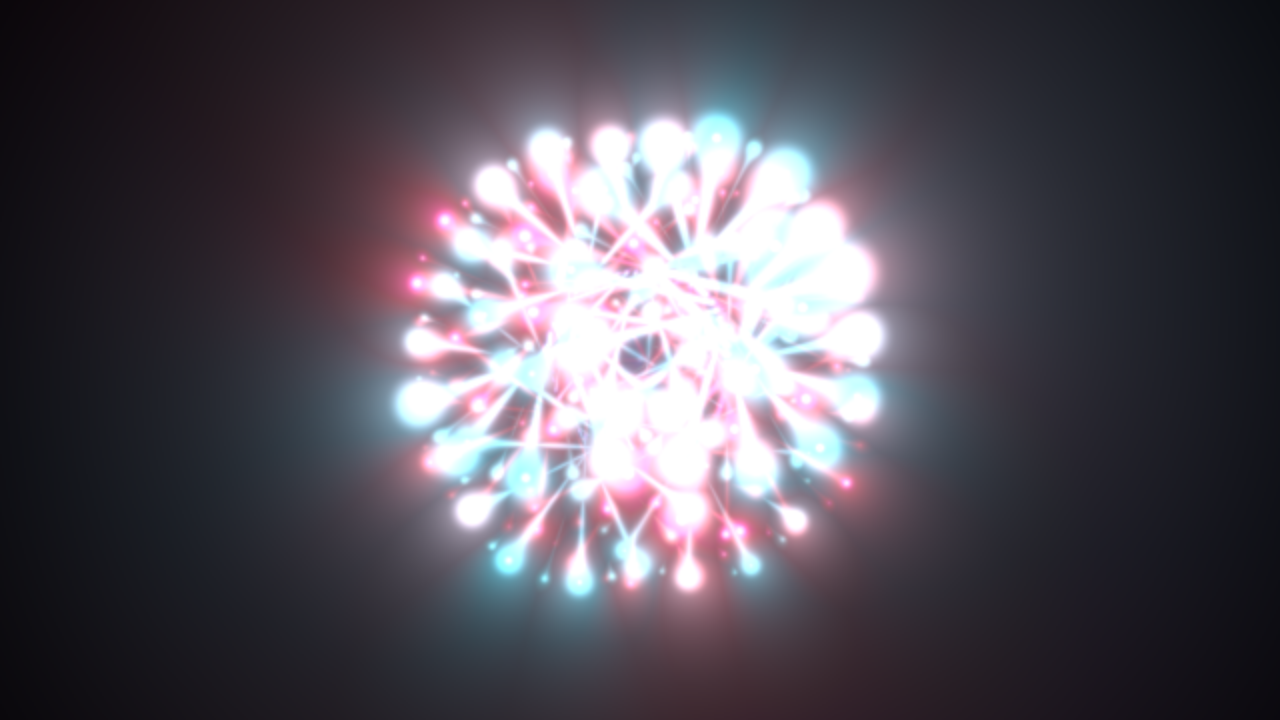
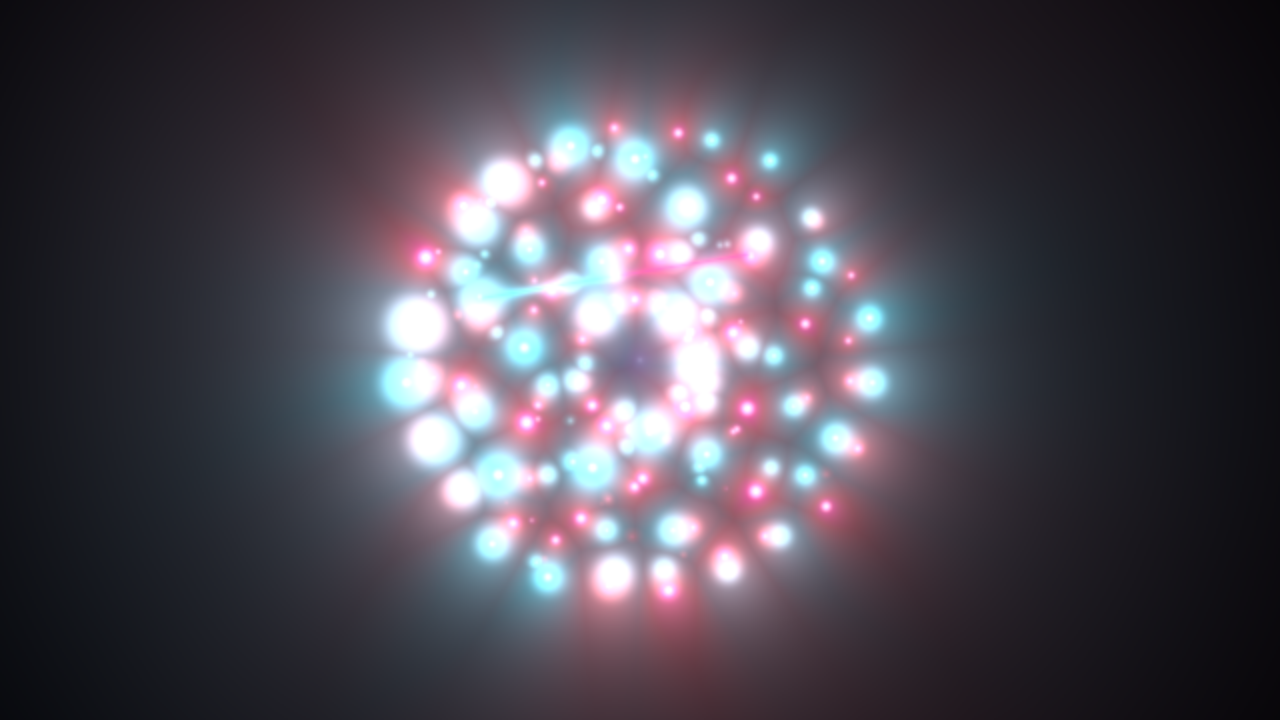
glow-poi: trails on the orbs only, strings drawn fresh
Only the glowing heads leave light-trails now. poiHeads gains a `parts`
option ("all" | "heads" | "rig"); the scene runs a heads-only pass through
feedback and composites a fresh strings+pivot pass (`over`) on top, so the
strings show their current position without smearing into the trail.

Claude-Session: https://claude.ai/code/session_01PEfRfzMyK2dGJ2GMpLfqU5

Changed region(s): [[0.2188, 0.0306, 0.7812, 0.9472]]

diff --git a/content/modules/sources/poiHeads.ts b/content/modules/sources/poiHeads.ts
@@ -24,6 +24,12 @@ export interface PoiHeadsOpts {
   spinner?: SignalLike;
   /** Palette stops cycled across the heads (default [2, 4] — the two cores/accent). */
   colorStops?: number[];
+  /**
+   * Which parts to draw: "all" (default), "heads" (just the glowing orbs +
+   * sparkle), or "rig" (just the strings + pivot). Split a scene into a
+   * heads-only pass it can trail and a fresh rig pass so only the orbs smear.
+   */
+  parts?: "all" | "heads" | "rig";
 }
 
 /** Premultiplied capsule glow between two points (the string). */
@@ -72,6 +78,9 @@ export const poiHeads = defineModule(
     const sparkAmt = ctx.uniformOf(opts.spark ?? 1);
     const spinnerAmt = ctx.uniformOf(opts.spinner ?? 0);
     const tNow = ctx.uniformOf(ctx.time.now);
+    const parts = opts.parts ?? "all";
+    const drawHeads = parts !== "rig";
+    const drawRig = parts !== "heads";
 
     const asp = surfaceAspect();
     const p = uv().sub(0.5).mul(vec2(asp, 1));
@@ -97,31 +106,33 @@ export const poiHeads = defineModule(
       const fl = sin(tNow.mul(21).add(float(i * 2.1))).mul(sin(tNow.mul(6.3).add(float(i))));
       const flicker = mix(float(1), float(0.7).add(fl.mul(0.3)), warm);
 
-      // The string.
-      if (hands[i]) {
+      // The string (rig).
+      if (drawRig && hands[i]) {
         const hand = vec2(ctx.uniformOf(hands[i]!.x), ctx.uniformOf(hands[i]!.y));
         const tg = tetherGlow(p, hand, pos, tetherW, col);
         acc = acc.add(tg.rgb.mul(glow).mul(0.6));
         alpha = max(alpha, tg.a.mul(0.6));
       }
 
-      // The orb.
-      const d = length(p.sub(pos));
-      const orb = glowDot(d, size, col).mul(flicker).mul(glow);
-      acc = acc.add(orb.rgb);
-      alpha = max(alpha, orb.a);
+      if (drawHeads) {
+        // The orb.
+        const d = length(p.sub(pos));
+        const orb = glowDot(d, size, col).mul(flicker).mul(glow);
+        acc = acc.add(orb.rgb);
+        alpha = max(alpha, orb.a);
 
-      // Sparkler crackle near the head.
-      const noise = valueNoise2(p.mul(40).add(vec2(tNow.mul(3.1), tNow.mul(-2.3))));
-      const crackle = pow(noise, float(6)).mul(9);
-      const gate = size.mul(2.4).div(d.add(size.mul(2.4)));
-      const sparkle = crackle.mul(gate).mul(gate).mul(sparkW).mul(sparkAmt).mul(glow);
-      acc = acc.add(vec3(sparkle));
-      alpha = max(alpha, sparkle.clamp(0, 1));
+        // Sparkler crackle near the head.
+        const noise = valueNoise2(p.mul(40).add(vec2(tNow.mul(3.1), tNow.mul(-2.3))));
+        const crackle = pow(noise, float(6)).mul(9);
+        const gate = size.mul(2.4).div(d.add(size.mul(2.4)));
+        const sparkle = crackle.mul(gate).mul(gate).mul(sparkW).mul(sparkAmt).mul(glow);
+        acc = acc.add(vec3(sparkle));
+        alpha = max(alpha, sparkle.clamp(0, 1));
+      }
     }
 
-    // Faint spinner body at the pivot.
-    if (opts.pivot) {
+    // Faint spinner body at the pivot (rig).
+    if (drawRig && opts.pivot) {
       const pv = vec2(ctx.uniformOf(opts.pivot.x), ctx.uniformOf(opts.pivot.y));
       const dp = length(p.sub(pv));
       const body = glowDot(dp, size.mul(0.7), ctx.palette.color(1)).mul(spinnerAmt).mul(glow);

diff --git a/content/scenes/glow-poi.scene.ts b/content/scenes/glow-poi.scene.ts
@@ -1,6 +1,7 @@
 import { Signal, defineScene, integrateSignal } from "@loom/runtime";
 import { feedback } from "../modules/effects/feedback";
 import { bloom } from "../modules/effects/bloom";
+import { over } from "../modules/effects/over";
 import { transform } from "../modules/effects/transform";
 import { vignette } from "../modules/effects/vignette";
 import { poiHeads } from "../modules/sources/poiHeads";
@@ -85,17 +86,15 @@ export default defineScene({
     const punchSig = punch.signal();
     const headGlow = new Signal((f) => glowSig.get(f) * (1 + kick.get(f) * punchSig.get(f)));
 
-    const heads = poiHeads(ctx, {
+    // Only the ORBS leave light-trails — drawn alone and run through feedback.
+    const orbs = poiHeads(ctx, {
       heads: motion.heads,
-      hands: motion.hands,
-      pivot: motion.pivot,
       size: headSize.signal(),
-      tether: tether.signal(),
       glow: headGlow,
       mode: mode.signal(),
       spark: spark.signal(),
-      spinner: spinner.signal(),
       colorStops: [2, 3],
+      parts: "heads",
     });
 
     // Light trails: maneuver trail-bias nudges the persistence, kick lengthens it a touch.
@@ -103,12 +102,27 @@ export default defineScene({
     const trailAmt = new Signal((f) =>
       Math.min(0.985, Math.max(0, trailSig.get(f) + (motion.trailBias.get(f) - 0.5) * 0.12 + kick.get(f) * 0.02)),
     );
-    const trails = ctx.layer("flow", feedback(ctx, { input: heads, amount: trailAmt, zoom: drift.signal() }));
+    const trails = ctx.layer("flow", feedback(ctx, { input: orbs, amount: trailAmt, zoom: drift.signal() }));
+
+    // The strings + pivot are drawn FRESH each frame (no trail) over the trailed orbs.
+    const rig = poiHeads(ctx, {
+      heads: motion.heads,
+      hands: motion.hands,
+      pivot: motion.pivot,
+      size: headSize.signal(),
+      tether: tether.signal(),
+      glow: headGlow,
+      mode: mode.signal(),
+      spinner: spinner.signal(),
+      colorStops: [2, 3],
+      parts: "rig",
+    });
+    const composed = over(ctx, { input: trails, overlay: rig });
 
     // Camera + finish.
     const camSpinSig = camSpin.signal();
     const camAngle = integrateSignal(new Signal((f) => camSpinSig.get(f) * Math.PI * 2));
-    const framed = transform(ctx, { input: trails, scale: camZoom.signal(), rotate: camAngle });
+    const framed = transform(ctx, { input: composed, scale: camZoom.signal(), rotate: camAngle });
     const bloomIntSig = bloomInt.signal();
     const bloomSig = new Signal((f) => bloomIntSig.get(f) * (1 + kick.get(f) * punchSig.get(f) * 0.5));
     const lit = bloom(ctx, { input: framed, level: bloomLevel.signal(), intensity: bloomSig, radius: 1.1 });